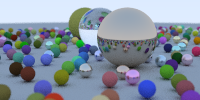
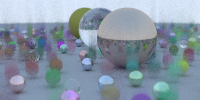
Motion blur

diff --git a/src/main.rs b/src/main.rs
@@ -14,6 +14,7 @@ use materials::metal::Metal;
 use materials::Material;
 use materials::Scatterable;
 use objects::camera::Camera;
+use objects::moving_sphere::Moving_Sphere;
 use objects::sphere::Sphere;
 use objects::{Hittable, HittableList};
 use ray::Ray;
@@ -28,11 +29,11 @@ use rayon::iter::{IntoParallelIterator, ParallelIterator};
 use std::f64;
 
 fn main() {
-    let filename = "output/sample.png";
+    let filename = "output/motion_blur.png";
 
-    let nx: i16 = 200;
-    let ny: i16 = 100;
-    let ns: u64 = 100;
+    let nx: i16 = 600;
+    let ny: i16 = 400;
+    let ns: u64 = 200;
 
     let cam: Camera = Camera::new(
         Point3::new(13.0, 2.0, 3.0),
@@ -42,6 +43,8 @@ fn main() {
         f64::from(nx) / f64::from(ny),
         0.1,
         10.0,
+        0.0,
+        1.0,
     );
 
     let world: HittableList = random_scene();
@@ -105,11 +108,11 @@ fn random_scene() -> HittableList {
     let mut rng = rand::thread_rng();
 
     let mut list: HittableList = HittableList::new();
-    list.add(Sphere::from(
+    list.add(Box::new(Sphere::from(
         Point3::new(0.0, -1000.0, 0.0),
         1000.0,
         Material::Lambertian(Lambertian::new(Vector3::new(0.5, 0.5, 0.5))),
-    ));
+    )));
 
     for a in -11..11 {
         for b in -11..11 {
@@ -122,18 +125,21 @@ fn random_scene() -> HittableList {
             if (center - Vector3::new(4.0, 0.2, 0.0)).to_vec().magnitude() > 0.9 {
                 if choose_mat < 0.8 {
                     // diffuse
-                    list.add(Sphere::from(
+                    list.add(Box::new(Moving_Sphere::from(
                         center,
+                        center + Vector3::new(0.0, 0.5 * rng.gen::<f64>(), 0.0),
+                        0.0,
+                        1.0,
                         0.2,
                         Material::Lambertian(Lambertian::new(Vector3::new(
                             rng.gen::<f64>() * rng.gen::<f64>(),
                             rng.gen::<f64>() * rng.gen::<f64>(),
                             rng.gen::<f64>() * rng.gen::<f64>(),
                         ))),
-                    ));
+                    )));
                 } else if choose_mat < 0.95 {
                     //metal
-                    list.add(Sphere::from(
+                    list.add(Box::new(Sphere::from(
                         center,
                         0.2,
                         Material::Metal(Metal::new(
@@ -144,32 +150,32 @@ fn random_scene() -> HittableList {
                             ),
                             0.5 * rng.gen::<f64>(),
                         )),
-                    ));
+                    )));
                 } else {
                     // dielectric
-                    list.add(Sphere::from(
+                    list.add(Box::new(Sphere::from(
                         center,
                         0.2,
                         Material::Dielectric(Dielectric::from(1.5)),
-                    ));
+                    )));
                 }
             }
 
-            list.add(Sphere::from(
+            list.add(Box::new(Sphere::from(
                 Point3::new(0.0, 1.0, 0.0),
                 1.0,
                 Material::Dielectric(Dielectric::from(1.5)),
-            ));
-            list.add(Sphere::from(
+            )));
+            list.add(Box::new(Sphere::from(
                 Point3::new(-4.0, 1.0, 0.0),
                 1.0,
                 Material::Lambertian(Lambertian::new(Vector3::new(0.4, 0.4, 0.1))),
-            ));
-            list.add(Sphere::from(
+            )));
+            list.add(Box::new(Sphere::from(
                 Point3::new(4.0, 1.0, 0.0),
                 1.0,
                 Material::Metal(Metal::new(Vector3::new(0.7, 0.6, 0.5), 0.0)),
-            ));
+            )));
         }
     }
 

diff --git a/src/objects/moving_sphere.rs b/src/objects/moving_sphere.rs
@@ -1,0 +1,73 @@
+use super::HitRecord;
+use super::Hittable;
+use materials::Material;
+use ray::Ray;
+
+use cgmath::dot;
+use cgmath::prelude::*;
+use cgmath::Point3;
+use cgmath::Vector3;
+
+#[derive(Debug, Clone, Copy)]
+pub struct Moving_Sphere {
+    pub center0: Point3<f64>,
+    pub center1: Point3<f64>,
+    pub time0: f64,
+    pub time1: f64,
+    pub radius: f64,
+    pub material: Material,
+}
+
+impl Moving_Sphere {
+    pub fn from(
+        center0: Point3<f64>,
+        center1: Point3<f64>,
+        time0: f64,
+        time1: f64,
+        radius: f64,
+        material: Material,
+    ) -> Moving_Sphere {
+        Moving_Sphere {
+            center0,
+            center1,
+            time0,
+            time1,
+            radius,
+            material,
+        }
+    }
+
+    pub fn center(&self, time: f64) -> Vector3<f64> {
+        self.center0.to_vec()
+            + ((time - self.time0) / (self.time1 - time)) * (self.center1 - self.center0)
+    }
+}
+
+impl Hittable for Moving_Sphere {
+    fn hits(&self, ray: &Ray, t_min: f64, t_max: f64) -> Option<HitRecord> {
+        let oc = (ray.origin - self.center(ray.time)).to_vec();
+        let a = ray.direction.dot(ray.direction);
+        let b = 2.0 * dot(oc, ray.direction);
+        let c = dot(oc, oc) - self.radius.powi(2);
+        let discriminant = b * b - 4.0 * a * c;
+        if discriminant > 0.0 {
+            let t = (-b - discriminant.sqrt()) / (2.0 * a);
+            if t < t_max && t > t_min {
+                let p = ray.point_at(t);
+                let normal = (p - self.center(ray.time)) / self.radius;
+                let material = self.material;
+                return Some(HitRecord::new(t, p, normal, material));
+            }
+
+            let t = (-b + discriminant.sqrt()) / (2.0 * a);
+            if t < t_max && t > t_min {
+                let p = ray.point_at(t);
+                let normal = (p - self.center(ray.time)) / self.radius;
+                let material = self.material;
+                return Some(HitRecord::new(t, p, normal, material));
+            }
+        }
+
+        None
+    }
+}

diff --git a/src/objects/camera.rs b/src/objects/camera.rs
@@ -3,6 +3,7 @@ use ray::Ray;
 use cgmath::prelude::*;
 use cgmath::Point3;
 use cgmath::Vector3;
+use rand::prelude::*;
 
 use std::f64::consts::PI;
 
@@ -16,6 +17,8 @@ pub struct Camera {
     pub v: Vector3<f64>,
     pub w: Vector3<f64>,
     pub lens_radius: f64,
+    pub time0: f64,
+    pub time1: f64,
 }
 
 impl Camera {
@@ -27,6 +30,8 @@ impl Camera {
         aspect: f64,
         aperture: f64,
         focus_dist: f64,
+        time0: f64,
+        time1: f64,
     ) -> Camera {
         let lens_radius = aperture / 2.0;
         let theta = vfov * PI / 180.0;
@@ -48,15 +53,21 @@ impl Camera {
             u,
             v,
             w,
+            time0,
+            time1,
         }
     }
 
     pub fn get_ray(&self, s: f64, t: f64) -> Ray {
+        let mut rng = thread_rng();
+
         let rd = super::random_in_unit_disk() * self.lens_radius;
         let offset = self.u * rd.x + self.v * rd.y;
+        let time = self.time0 + rng.gen::<f64>() * (self.time1 - self.time0);
         Ray::from(
             self.origin + offset,
             self.lower_left_corner + s * self.horizontal + t * self.vertical - self.origin - offset,
+            time,
         )
     }
 }

diff --git a/src/objects/mod.rs b/src/objects/mod.rs
@@ -1,7 +1,7 @@
 pub mod camera;
+pub mod moving_sphere;
 pub mod sphere;
 
-use self::sphere::Sphere;
 use materials::Material;
 use ray::Ray;
 
@@ -34,22 +34,22 @@ impl HitRecord {
 }
 
 pub struct HittableList {
-    spheres: Vec<Box<Hittable>>,
+    objects: Vec<Box<Hittable>>,
 }
 
 impl HittableList {
     pub fn new() -> HittableList {
         HittableList {
-            spheres: Vec::new(),
+            objects: Vec::new(),
         }
     }
 
-    pub fn add(&mut self, sphere: Sphere) {
-        self.spheres.push(Box::new(sphere));
+    pub fn add(&mut self, object: Box<Hittable>) {
+        self.objects.push(object);
     }
 
     pub fn size(&self) -> usize {
-        self.spheres.len()
+        self.objects.len()
     }
 }
 
@@ -58,7 +58,7 @@ impl Hittable for HittableList {
         let mut hit_anything = None;
         let mut closest_so_far = t_max;
 
-        for sphere in &self.spheres {
+        for sphere in &self.objects {
             if let Some(hit) = sphere.hits(ray, t_min, closest_so_far) {
                 closest_so_far = hit.t;
                 hit_anything = Some(hit);

diff --git a/src/ray.rs b/src/ray.rs
@@ -1,16 +1,21 @@
 use cgmath::prelude::*;
-use cgmath::Vector3;
 use cgmath::Point3;
+use cgmath::Vector3;
 
 #[derive(Debug, Clone, Copy)]
 pub struct Ray {
     pub origin: Point3<f64>,
     pub direction: Vector3<f64>,
+    pub time: f64,
 }
 
 impl Ray {
-    pub fn from(origin: Point3<f64>, direction: Vector3<f64>) -> Ray {
-        Ray { origin, direction }
+    pub fn from(origin: Point3<f64>, direction: Vector3<f64>, time: f64) -> Ray {
+        Ray {
+            origin,
+            direction,
+            time,
+        }
     }
 
     pub fn point_at(&self, t: f64) -> Vector3<f64> {

diff --git a/src/materials/lambertian.rs b/src/materials/lambertian.rs
@@ -26,9 +26,9 @@ impl Lambertian {
 }
 
 impl Scatterable for Lambertian {
-    fn scatter(&self, _ray: &Ray, rec: &HitRecord) -> Option<(Ray, Vector3<f64>)> {
+    fn scatter(&self, ray: &Ray, rec: &HitRecord) -> Option<(Ray, Vector3<f64>)> {
         let target = rec.p + rec.normal + point_in_unit_sphere();
-        let scattered = Ray::from(Point3::from_vec(rec.p), target - rec.p);
+        let scattered = Ray::from(Point3::from_vec(rec.p), target - rec.p, ray.time);
         let attenuation = self.albedo;
 
         Some((scattered, attenuation))

diff --git a/src/materials/dielectric.rs b/src/materials/dielectric.rs
@@ -52,9 +52,9 @@ impl Scatterable for Dielectric {
         let scattered;
         let mut rng = thread_rng();
         if rng.gen::<f64>() < reflect_prob {
-            scattered = Ray::from(Point3::from_vec(rec.p), reflected);
+            scattered = Ray::from(Point3::from_vec(rec.p), reflected, ray.time);
         } else {
-            scattered = Ray::from(Point3::from_vec(rec.p), refracted);
+            scattered = Ray::from(Point3::from_vec(rec.p), refracted, ray.time);
         }
 
         Some((scattered, attenuation))

diff --git a/src/materials/metal.rs b/src/materials/metal.rs
@@ -37,6 +37,7 @@ impl Scatterable for Metal {
         let scattered = Ray::from(
             Point3::from_vec(rec.p),
             reflected + point_in_unit_sphere() * self.fuzz,
+            ray.time,
         );
         let attenuation = self.albedo;
 
